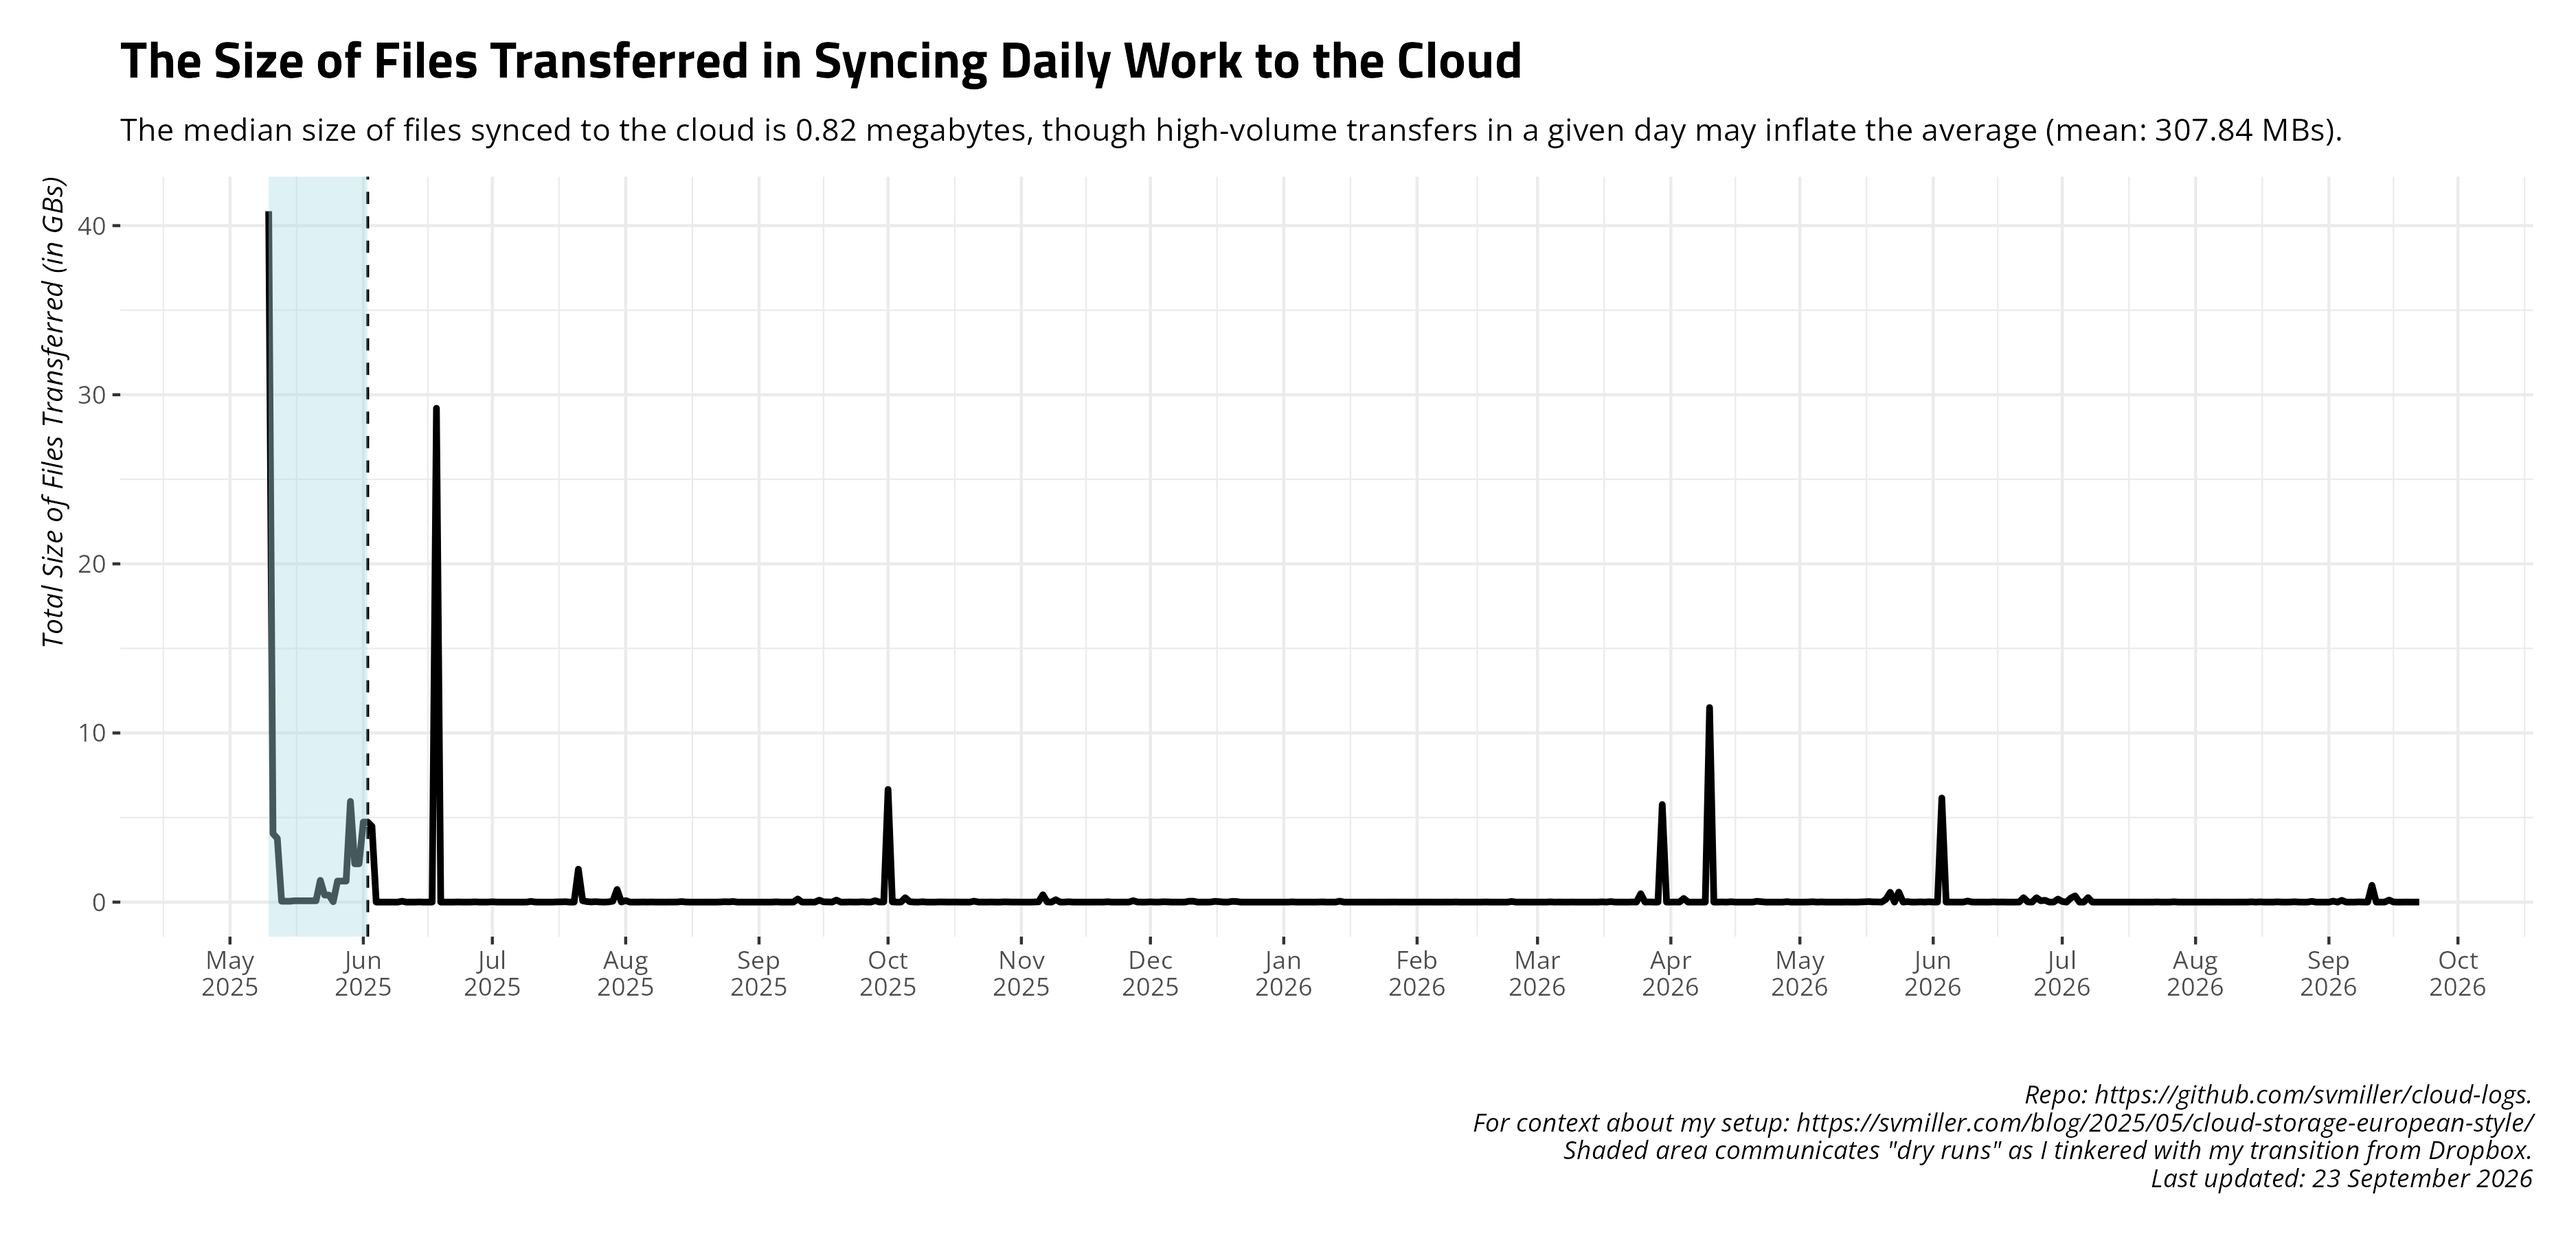
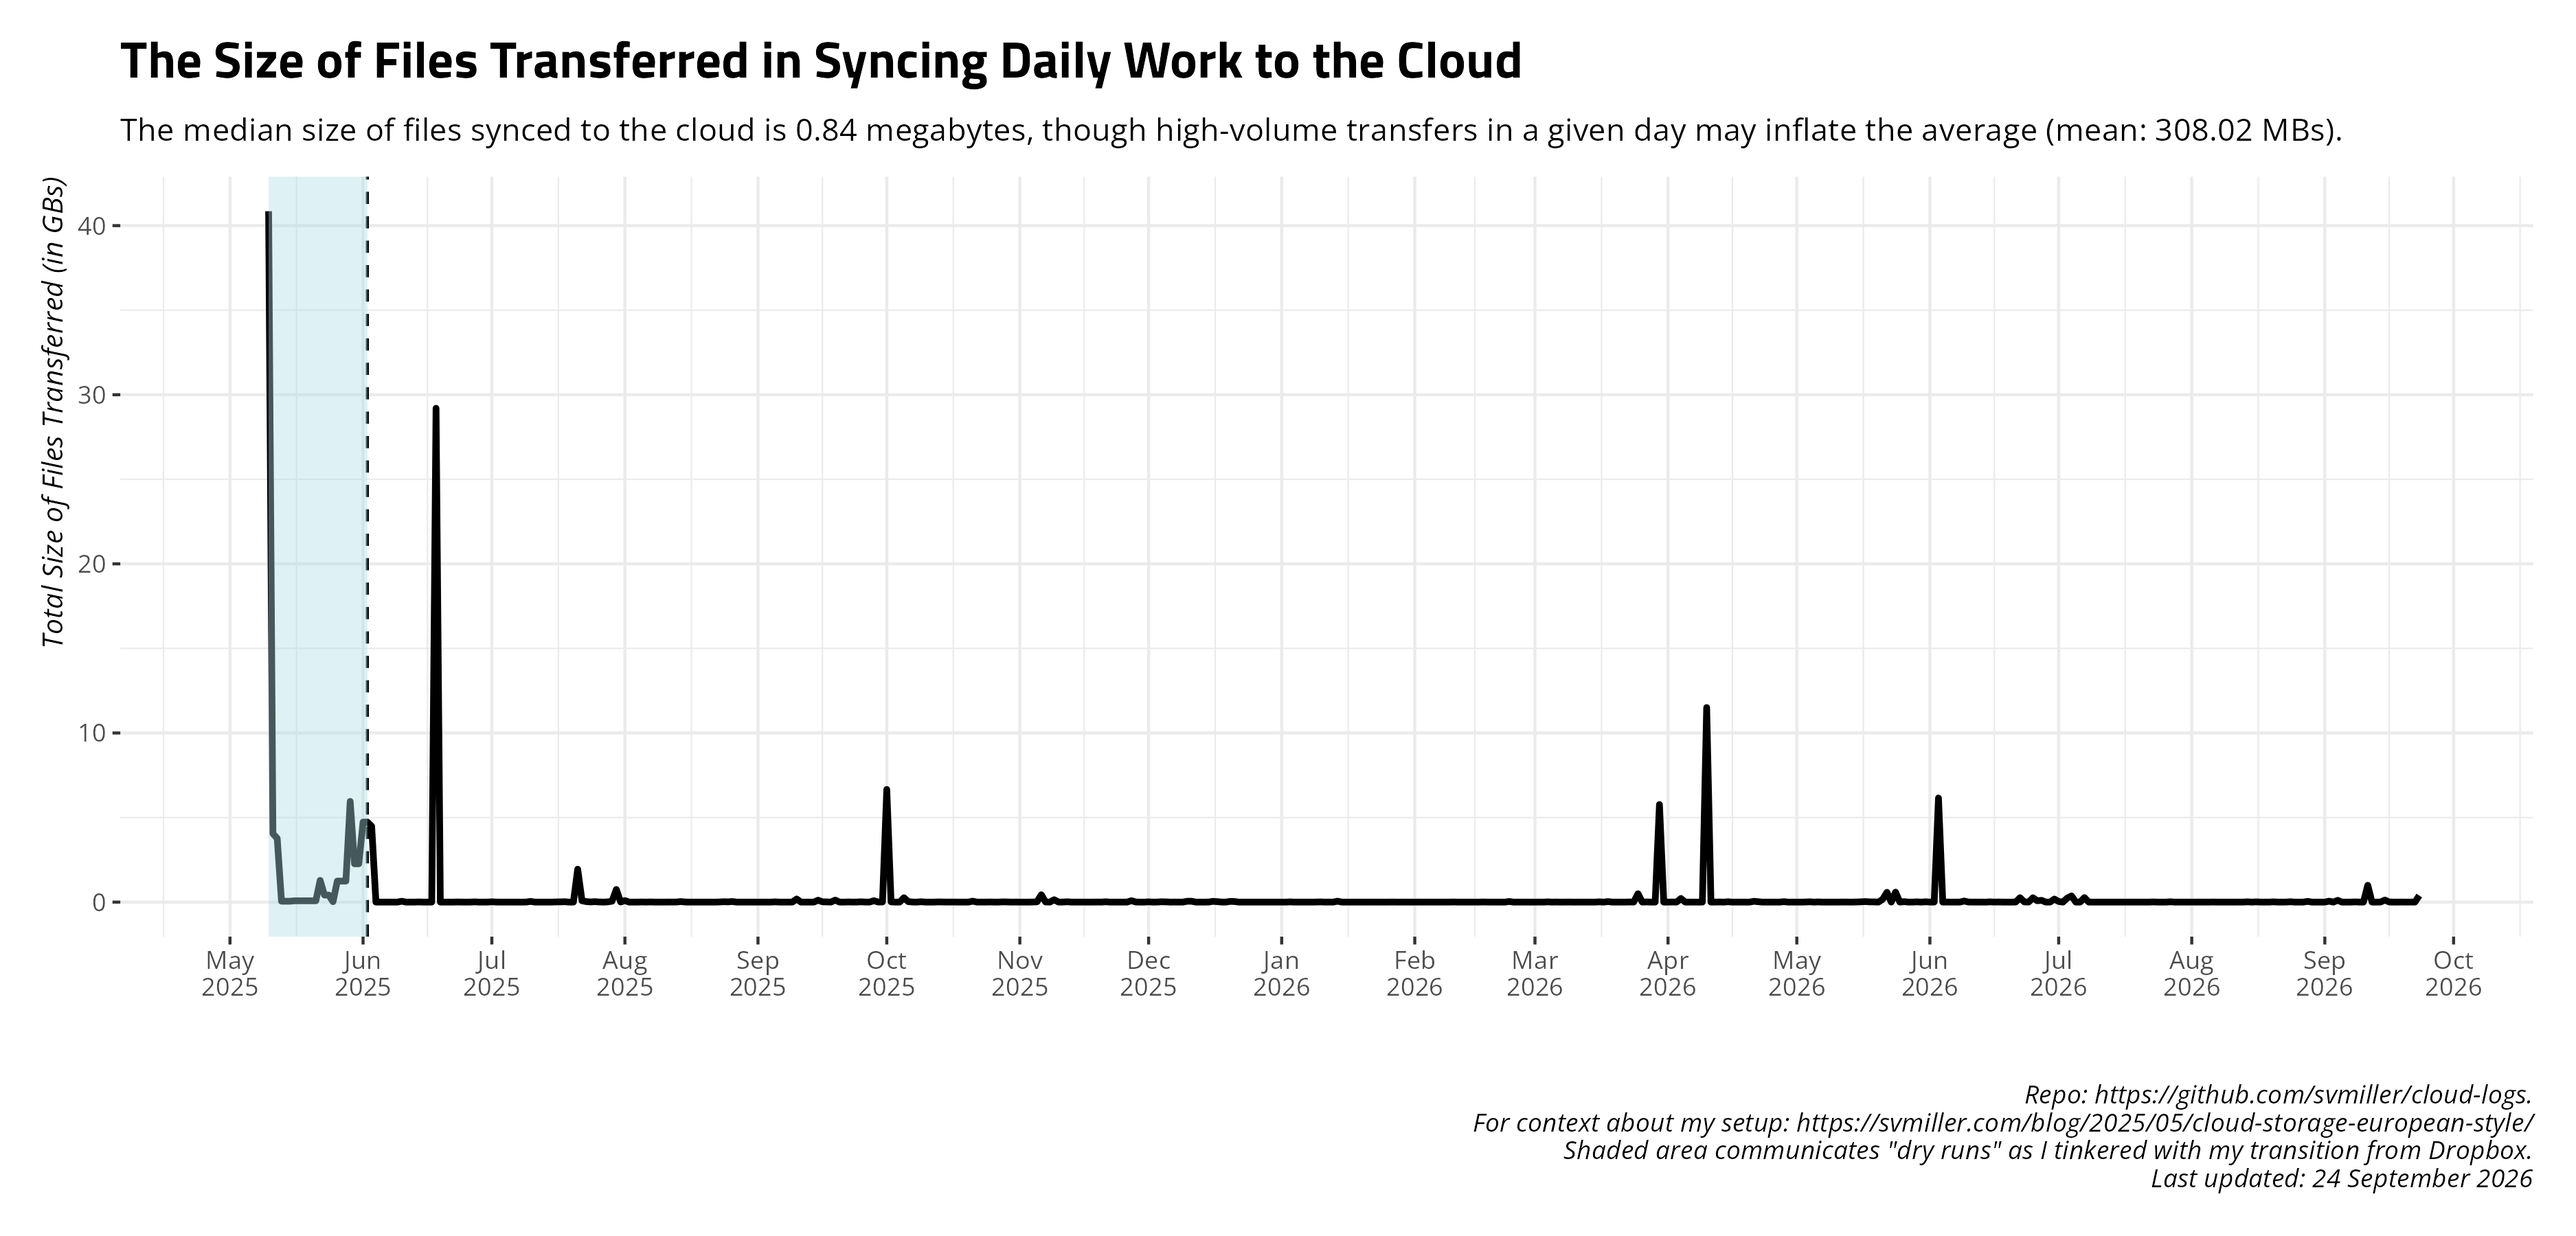
Date: 2026-09-24 09:00:34. Hi mom!

diff --git a/README.md b/README.md
@@ -27,17 +27,17 @@ and uploads to Github.
     #> # A tibble: 14 × 4
     #>    date       ftransfer stransfer    elapsed 
     #>    <date>         <dbl> <chr>        <chr>   
-    #>  1 2026-09-09        53 2.356 MiB    33m50.6s
-    #>  2 2026-09-10         1 10.592 KiB   34m11.7s
-    #>  3 2026-09-11       227 1018.108 MiB 12m21.6s
-    #>  4 2026-09-12         3 24.892 KiB   8m27.8s 
-    #>  5 2026-09-13         0 <NA>         4m45.2s 
-    #>  6 2026-09-14         3 4.051 MiB    10m22.9s
-    #>  7 2026-09-15        24 124.357 MiB  31m50.0s
-    #>  8 2026-09-16       478 6.253 MiB    6m54.2s 
-    #>  9 2026-09-17         0 <NA>         20m59.4s
-    #> 10 2026-09-18         9 8.488 KiB    26m21.2s
-    #> 11 2026-09-19        40 3.669 MiB    4m53.6s 
-    #> 12 2026-09-20         3 3.192 KiB    4m35.2s 
-    #> 13 2026-09-21        17 2.403 MiB    26m34.9s
-    #> 14 2026-09-22        46 2.190 MiB    4m36.1s
+    #>  1 2026-09-10         1 10.592 KiB   34m11.7s
+    #>  2 2026-09-11       227 1018.108 MiB 12m21.6s
+    #>  3 2026-09-12         3 24.892 KiB   8m27.8s 
+    #>  4 2026-09-13         0 <NA>         4m45.2s 
+    #>  5 2026-09-14         3 4.051 MiB    10m22.9s
+    #>  6 2026-09-15        24 124.357 MiB  31m50.0s
+    #>  7 2026-09-16       478 6.253 MiB    6m54.2s 
+    #>  8 2026-09-17         0 <NA>         20m59.4s
+    #>  9 2026-09-18         9 8.488 KiB    26m21.2s
+    #> 10 2026-09-19        40 3.669 MiB    4m53.6s 
+    #> 11 2026-09-20         3 3.192 KiB    4m35.2s 
+    #> 12 2026-09-21        17 2.403 MiB    26m34.9s
+    #> 13 2026-09-22        46 2.190 MiB    4m36.1s 
+    #> 14 2026-09-23        63 398.606 MiB  11m10.7s
